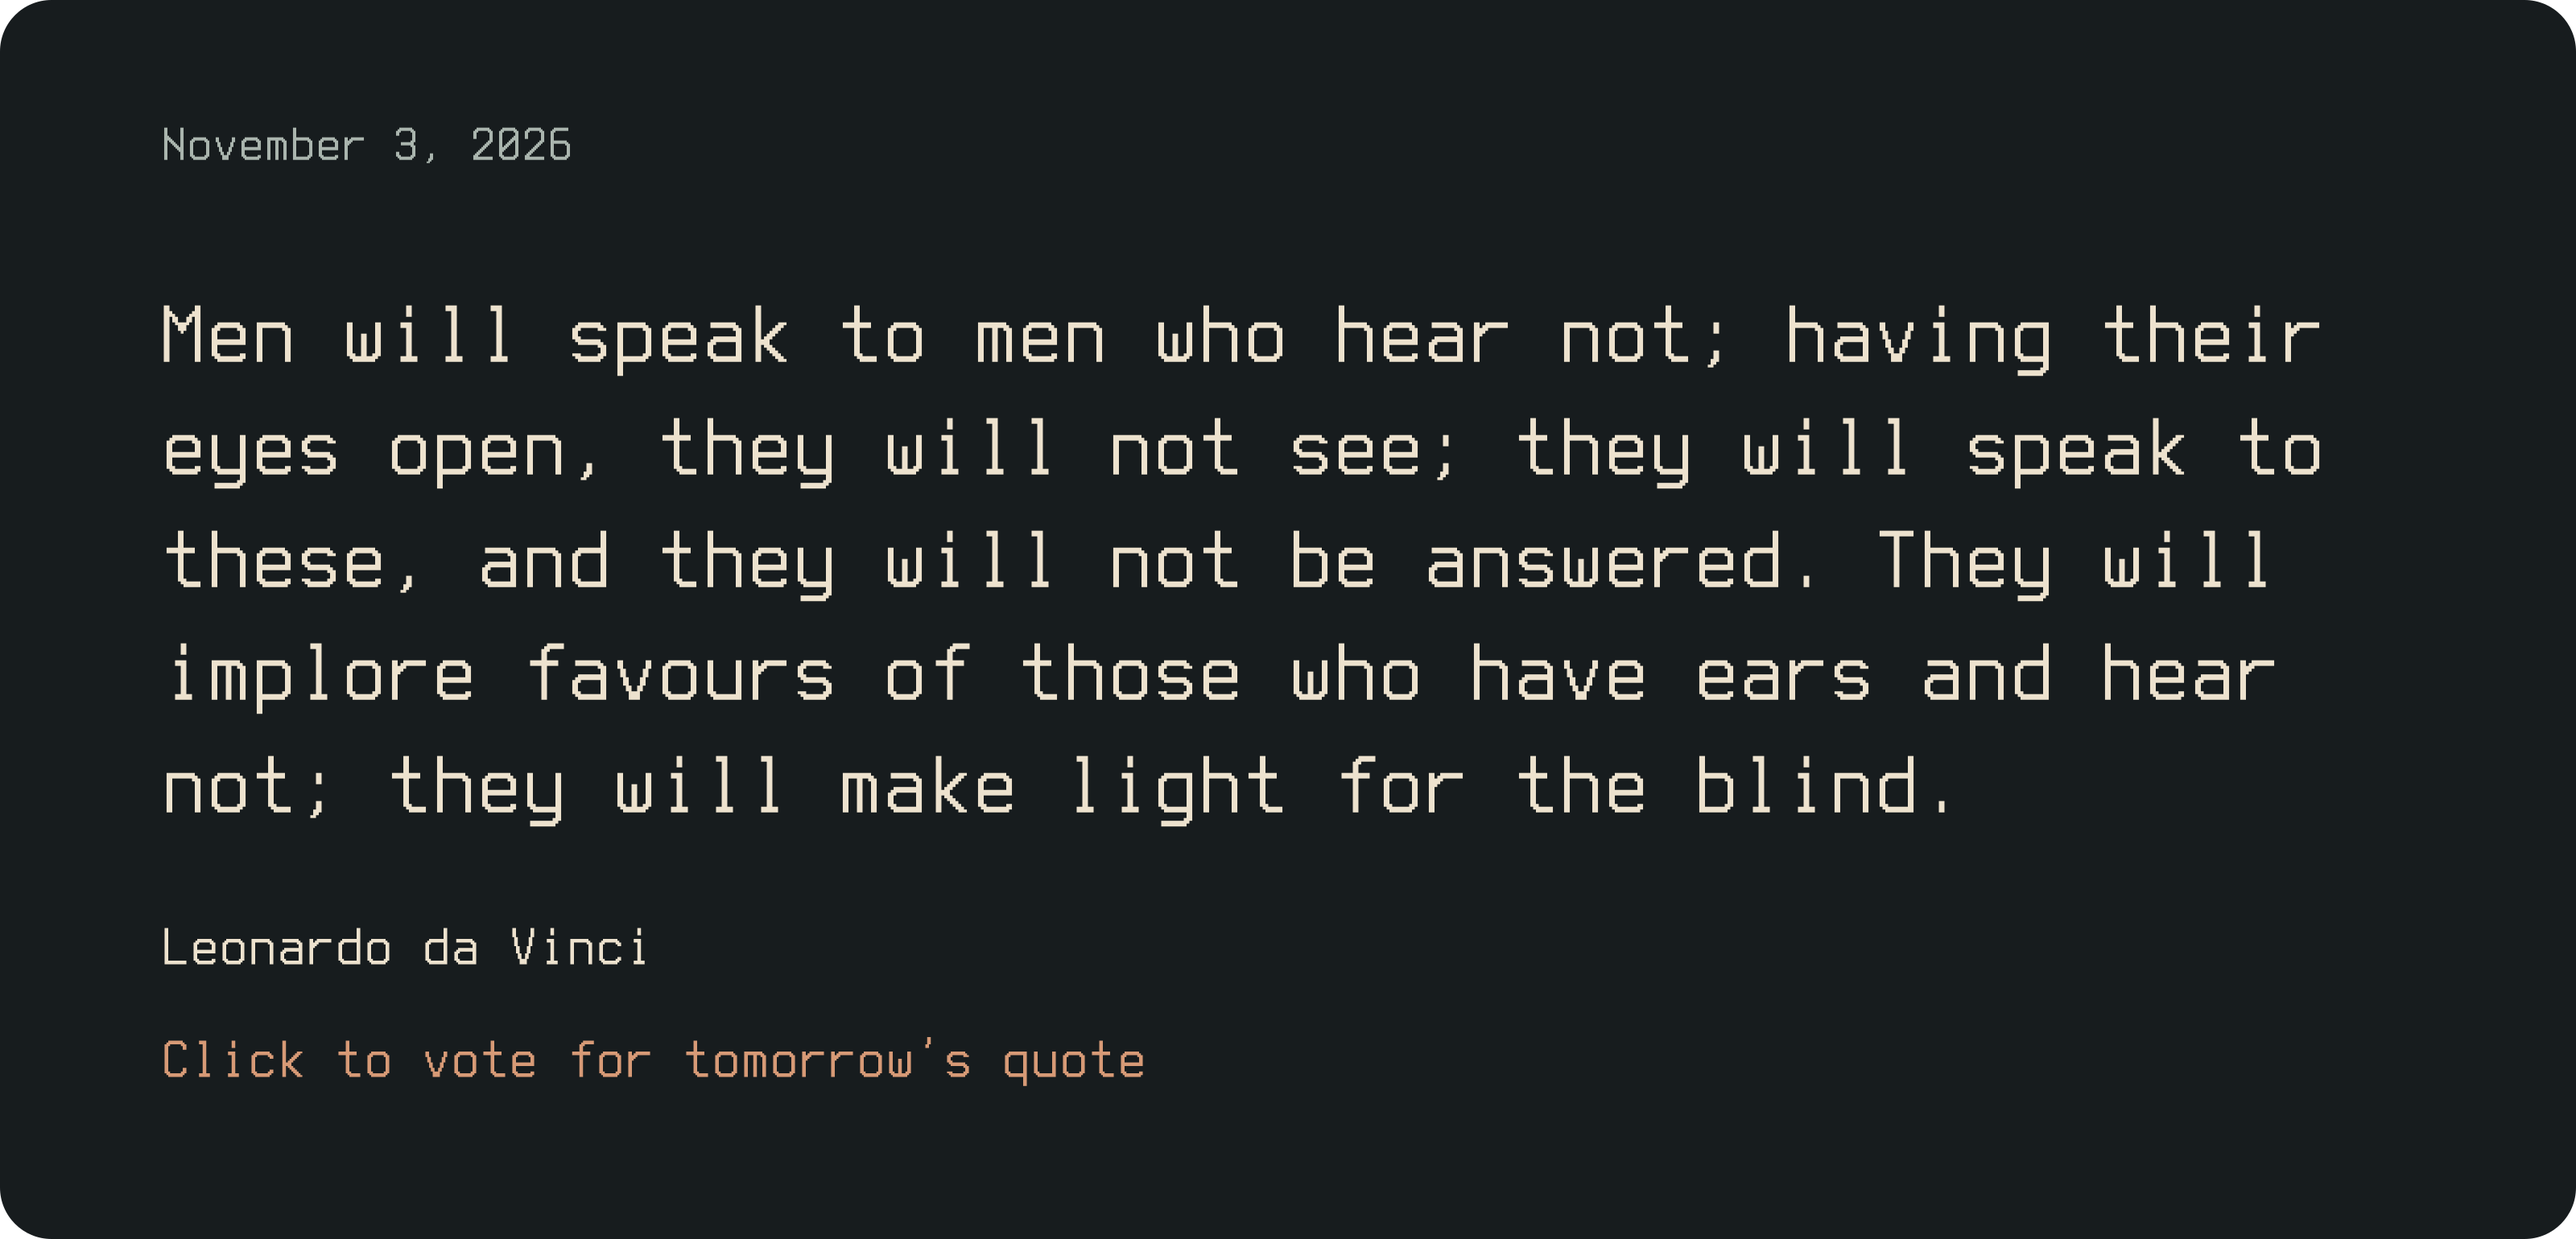
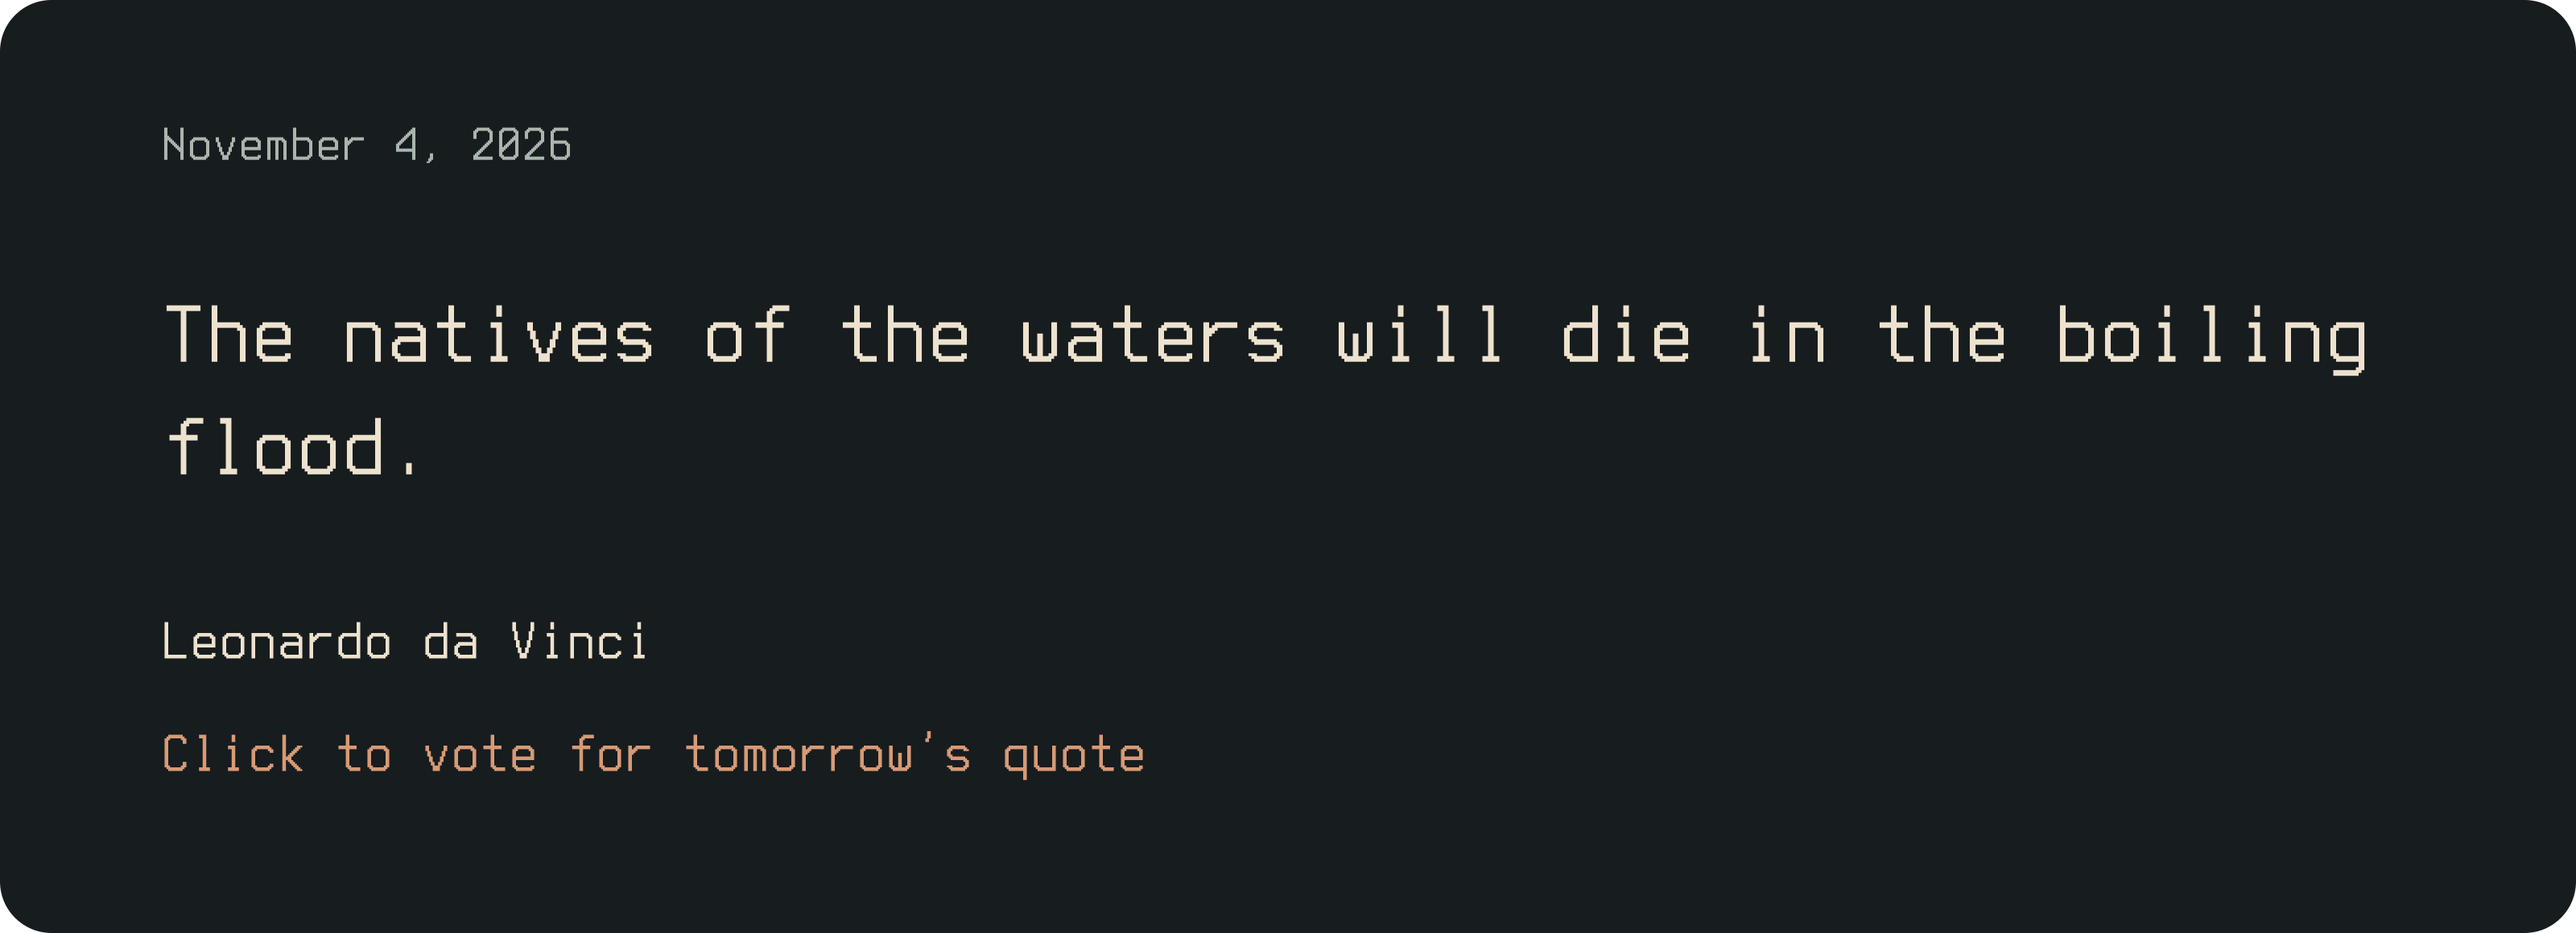
Update daily Leonardo passage

diff --git a/README.md b/README.md
@@ -1,1 +1,1 @@
-<a href="https://profile.epicliem.com" title="Choose tomorrow’s Leonardo da Vinci quote"><img src="./images/quote-0066f8fc6768.svg" alt="2026-11-03. Men will speak to men who hear not; having their eyes open, they will not see; they will speak to these, and they will not be answered. They will implore favours of those who have ears and hear not; they will make light for the blind. — Leonardo da Vinci. Click to vote for tomorrow’s quote." width="100%" /></a>
+<a href="https://profile.epicliem.com" title="Choose tomorrow’s Leonardo da Vinci quote"><img src="./images/quote-833ce1245b4e.svg" alt="2026-11-04. The natives of the waters will die in the boiling flood. — Leonardo da Vinci. Click to vote for tomorrow’s quote." width="100%" /></a>
